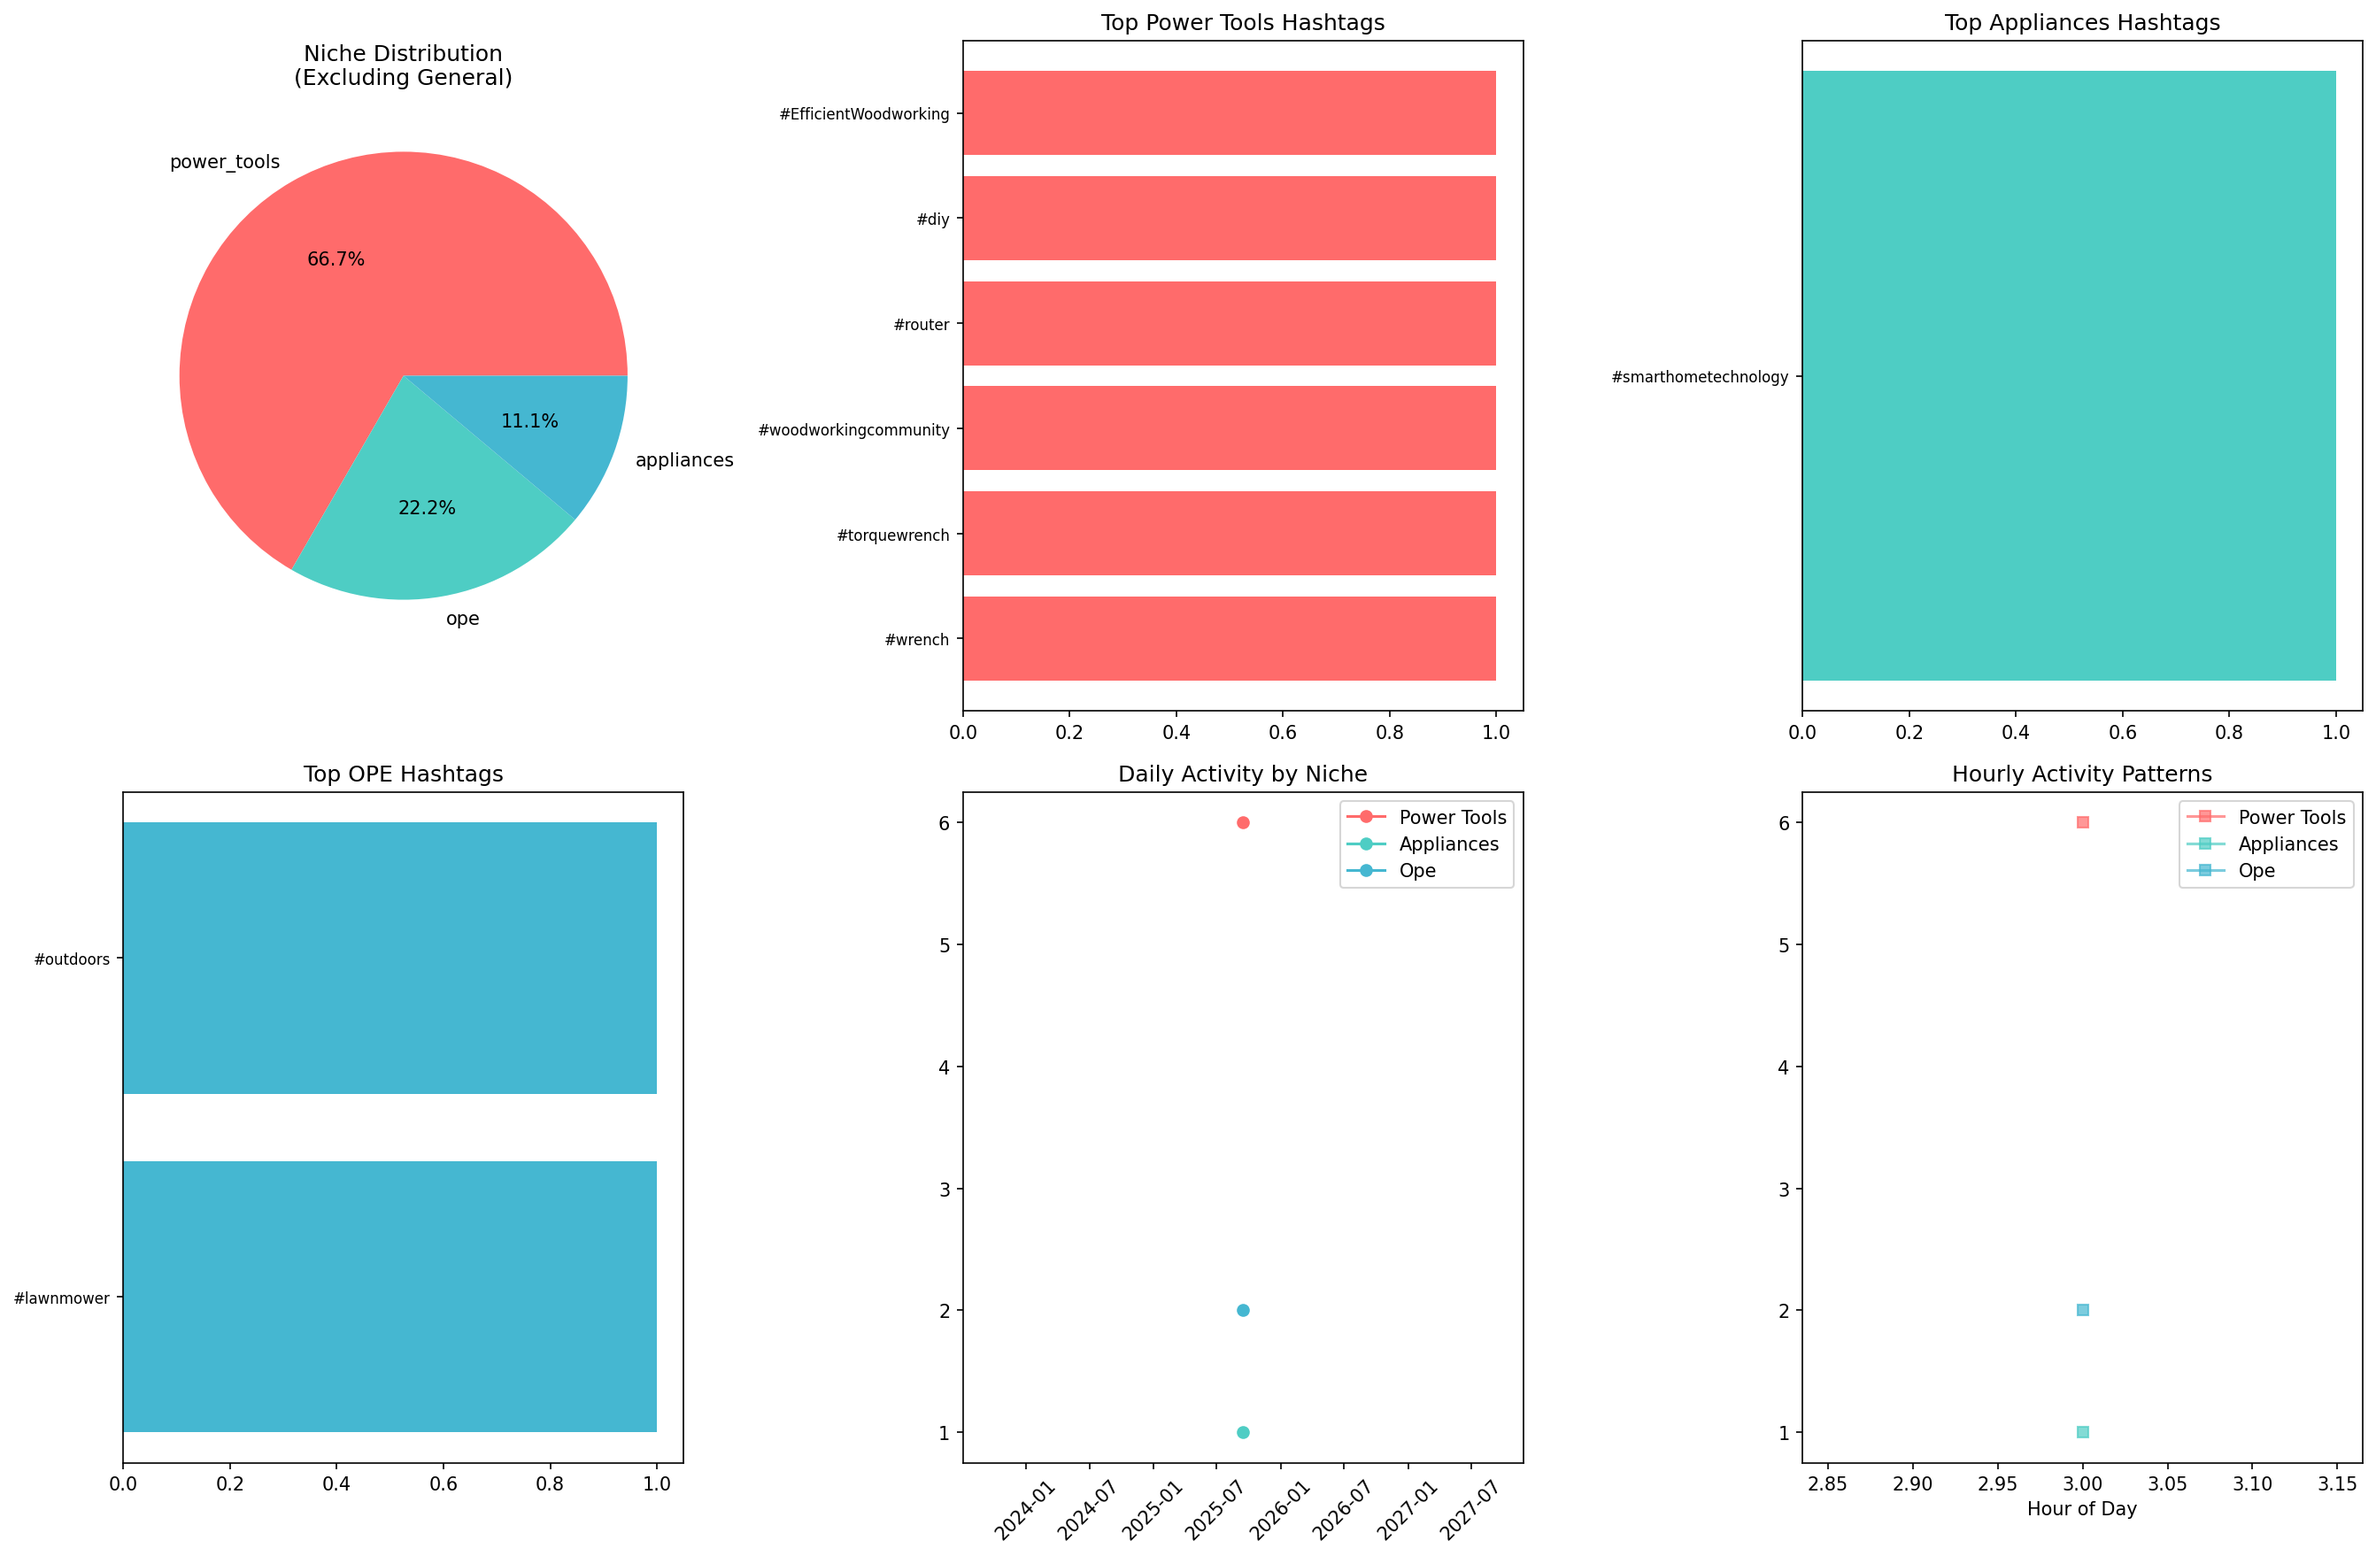
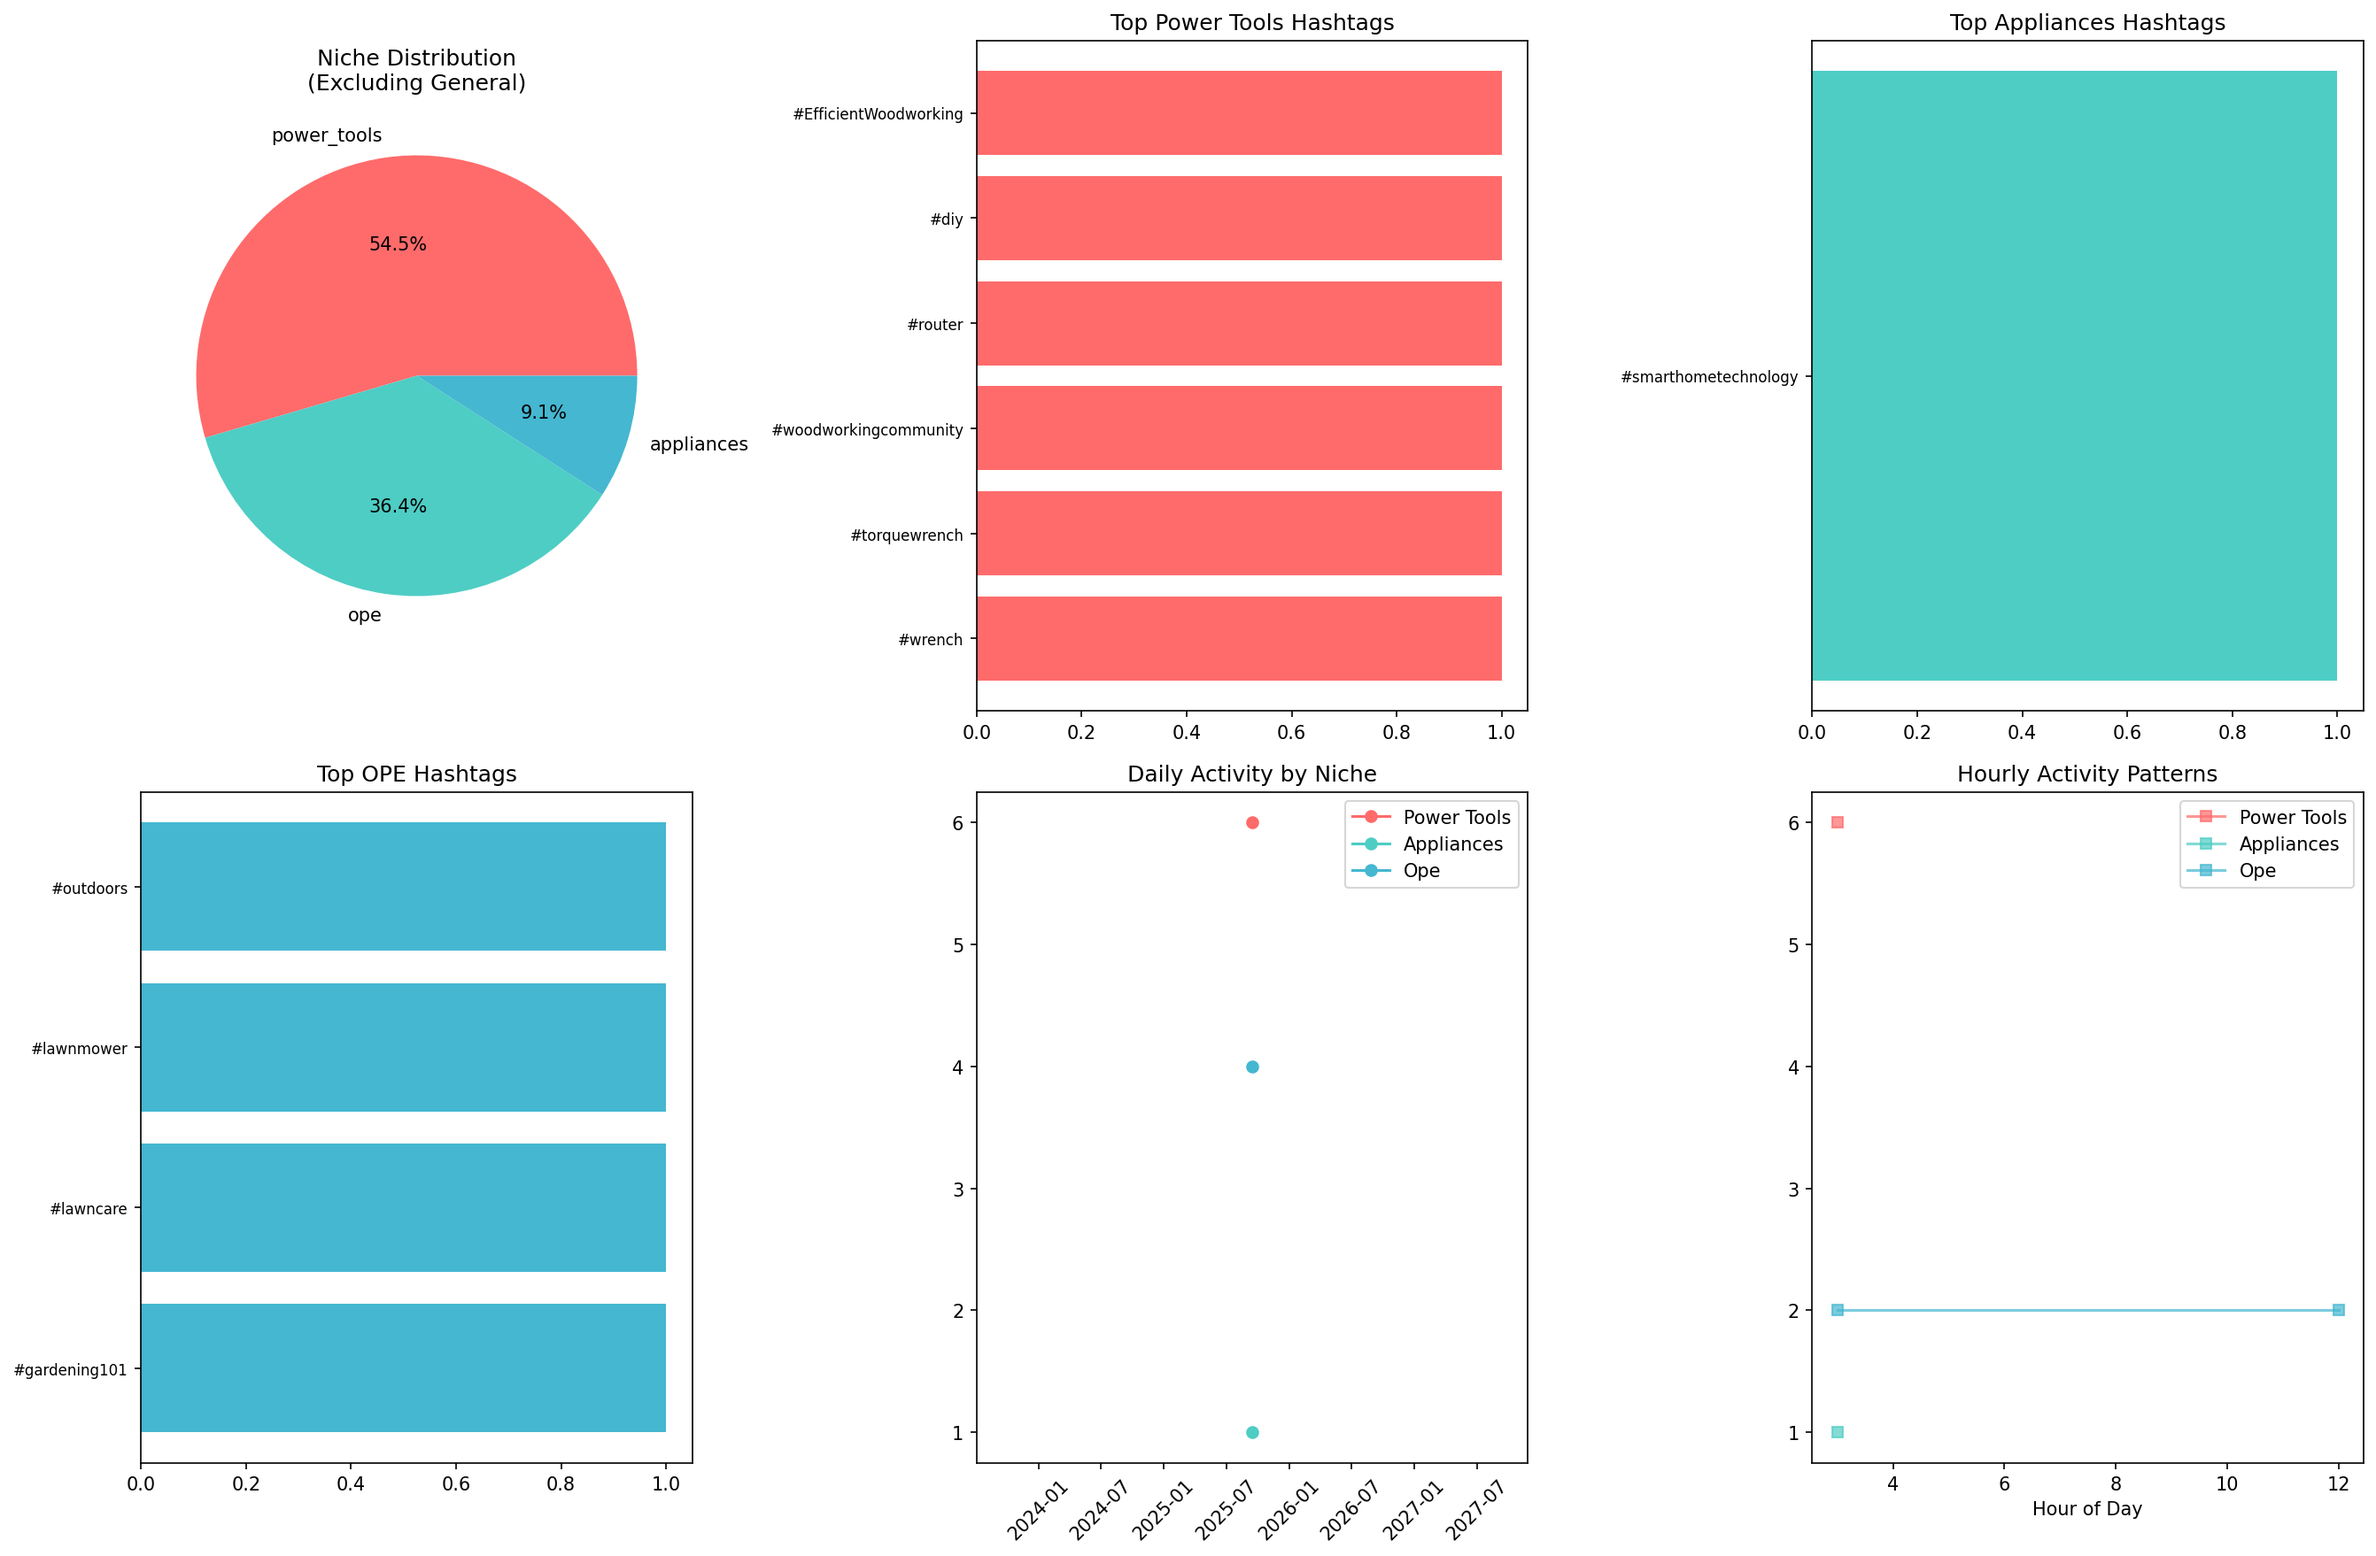
Auto-update: Pipeline results 2025-09-15 12:44

diff --git a/hashtag_dashboard.html b/hashtag_dashboard.html
@@ -165,7 +165,7 @@
             <div class="header">
                 <h1>🚀 TikTok Hashtag Analysis Dashboard</h1>
                 <p>Power Tools | Appliances | Outdoor Power Equipment</p>
-                <p>Generated: September 15, 2025 at 08:30 AM</p>
+                <p>Generated: September 15, 2025 at 12:44 PM</p>
             </div>
     
             <div class="summary">
@@ -173,7 +173,7 @@
                 <div class="summary-grid">
         
                     <div class="summary-item">
-                        <span class="summary-number">74</span>
+                        <span class="summary-number">98</span>
                         <div class="summary-label">General</div>
                     </div>
                 
@@ -183,7 +183,7 @@
                     </div>
                 
                     <div class="summary-item">
-                        <span class="summary-number">2</span>
+                        <span class="summary-number">4</span>
                         <div class="summary-label">Ope</div>
                     </div>
                 
@@ -248,6 +248,16 @@
                     <h2>🌿 Outdoor Power Equipment</h2>
                     <ul class="hashtag-list">
             
+                        <li class="hashtag-item">
+                            <span class="hashtag">##gardening101</span>
+                            <span class="count">1</span>
+                        </li>
+                    
+                        <li class="hashtag-item">
+                            <span class="hashtag">##lawncare</span>
+                            <span class="count">1</span>
+                        </li>
+                    
                         <li class="hashtag-item">
                             <span class="hashtag">##lawnmower</span>
                             <span class="count">1</span>
